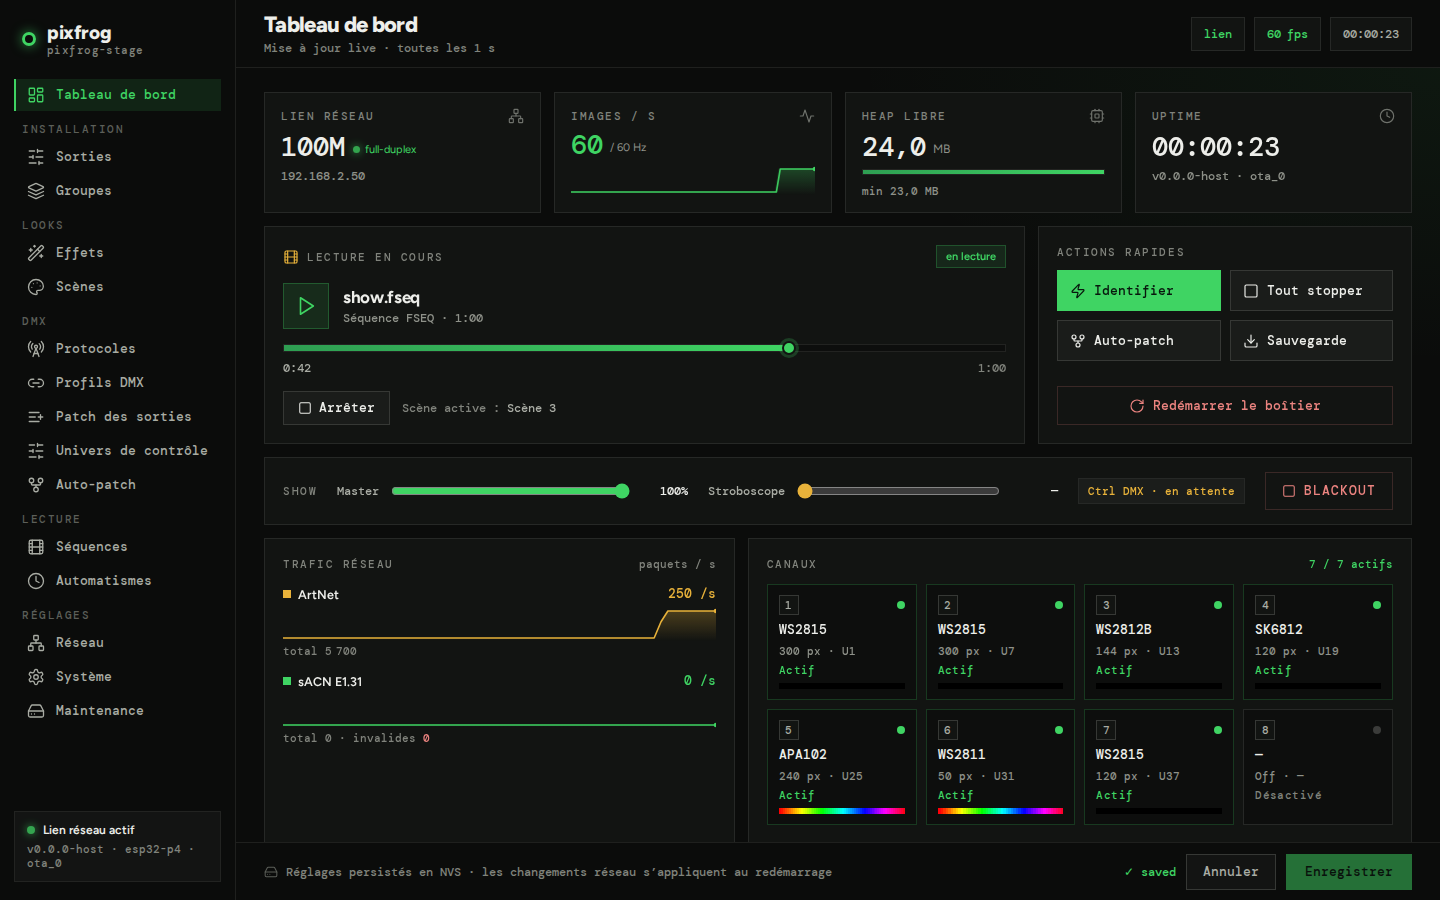
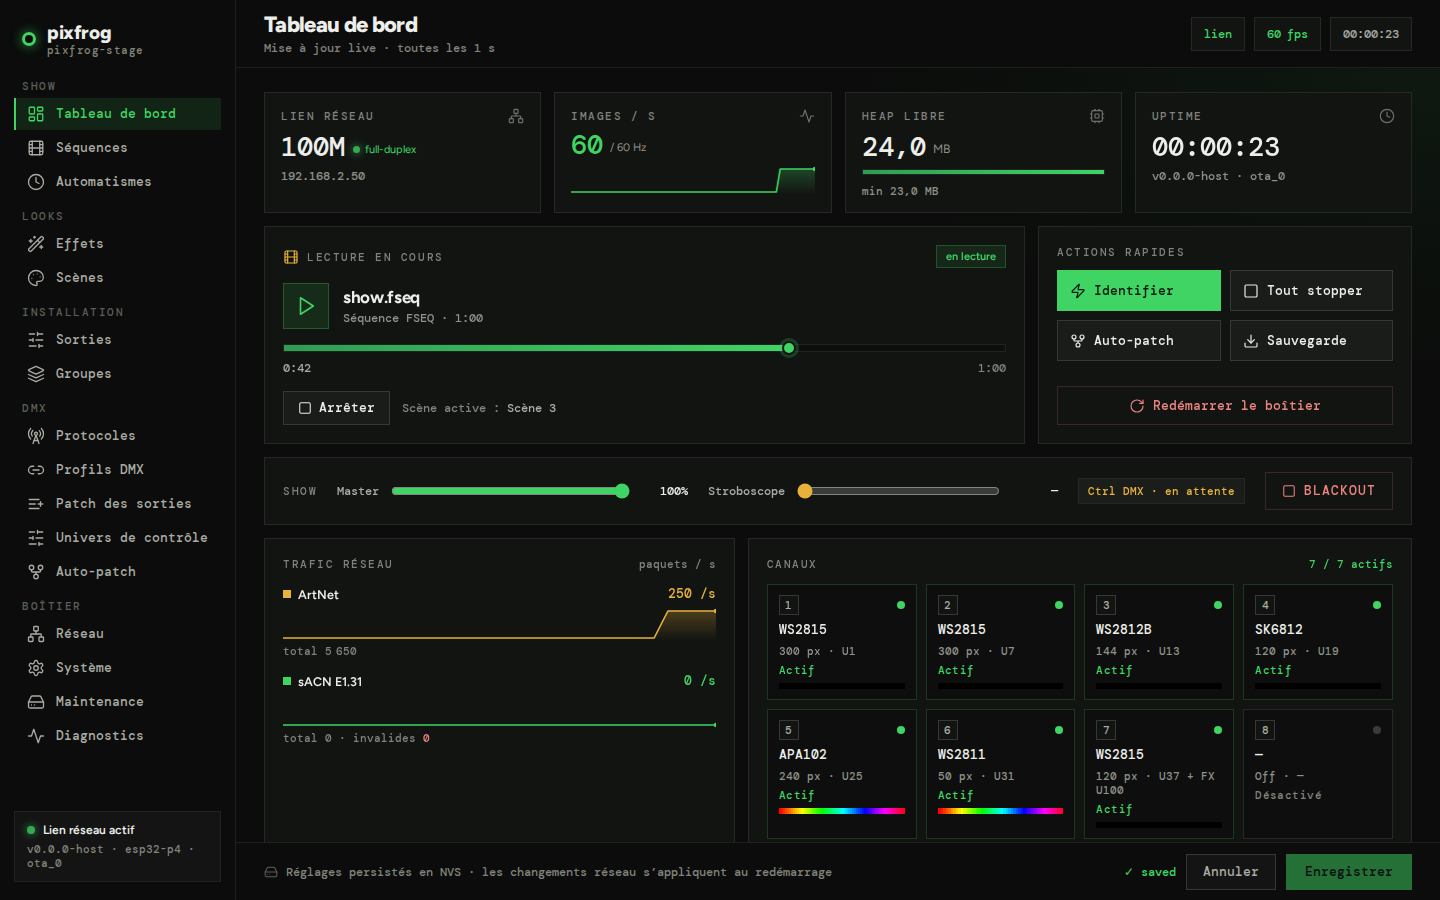
docs: pixels, fixtures or both per output; the auto-patch in three blocks
PROTOCOLS §5.6 rewritten around the two switches, the hardware validator
covers the mixed mode on the board, the captures follow the demo rig.

Changed region(s): [[0.0, 0.0933, 0.1562, 0.84], [0.75, 0.8711, 0.7812, 0.9022]]

diff --git a/tools/hw_validate/validate_control_mode.py b/tools/hw_validate/validate_control_mode.py
@@ -1,8 +1,10 @@
 #!/usr/bin/env python3
-"""DMX control mode on the board: an output with pixel mapping off, its
-fixtures driven like conventional luminaires through their DMX profiles —
-the patch sheet, plain colours, an effect of the bank, dimmer, a profile edit
-moving the addresses, and the way back to pixel mapping."""
+"""Fixture control on the board: an output's fixtures driven like conventional
+luminaires through their DMX profiles — alone (no pixel data): the patch
+sheet, plain colours, an effect of the bank, dimmer, a profile edit moving the
+addresses; then over the output's pixel mapping, each on its own universe: a
+fixture's Effect channel at 0 shows its pixels under its dimmer, above 0 the
+effect; then neither, and the way back to pixel mapping alone."""
 import sys
 
 from pixfrog_uart import Board, Checks, main_guard
@@ -27,7 +29,10 @@ def run(board: Board):
         board.cmd(f"profile preset {n} {preset}")
     # Three 20-pixel fixtures: RGB (3 ch), RGB FX (6 ch), Dim RGB (4 ch).
     board.cmd("ch 0 fixtures 1:20,21:20:p2,41:20:p1")
-    board.cmd("ch 0 packing control")
+    board.cmd("ch 0 pixel_map 0")  # the fixtures alone, where the output was
+    board.cmd("ch 0 fixture_ctl 1")
+    board.cmd("ch 0 fix_universe 1")
+    board.cmd("ch 0 fix_dmx 1")
     c.check("link up", board.wait_link())
 
     st = board.cmd("ch 0")
@@ -72,10 +77,61 @@ def run(board: Board):
             board.kv(board.cmd("ch 0"), "patch") == "1.1+3" and
             px(board, 0, 0) == [(17, 34, 51)] and px(board, 0, 59) == [(17, 34, 51)])
 
-    # Back to pixel mapping: the same bytes are pixels again.
+    # Both at once: the pixels on universe 1, the fixtures' channels on universe 2.
+    board.cmd("ch 0 fixtures 1:20,21:20:p2,41:20:p1")
     board.cmd("ch 0 packing continuous")
+    board.cmd("ch 0 pixel_map 1")
+    board.cmd("ch 0 fix_universe 2")
+    st = board.cmd("ch 0")
+    c.check("both: the fixtures on their own universe", board.kv(st, "patch") == "2.1+3,2.4+6,2.10+4")
+    c.check("both: one universe of pixels, one of fixtures", board.kv(st, "universes") == "2")
+    for first in (0, 20, 40):  # one pixel of each fixture, and its neighbour dark
+        board.cmd(f"dmxw 1 {first * 3 + 1} 203040000000")
+    #                    RGB       R G B bank spd shut  dim R  G B
+    board.cmd("dmxw 2 1 000000" "000000" "000000" "ff000000")
     board.cmd("status")
-    c.check("pixel mapping again", px(board, 0, 0) == [(17, 34, 51)] and px(board, 0, 1) != [(17, 34, 51)])
+    c.check("fixture 1 (no dimmer): its pixels as sent", px(board, 0, 0, 2) == [(32, 48, 64), (0, 0, 0)])
+    c.check("fixture 2, Effect at 0: its pixels", px(board, 0, 20, 2) == [(32, 48, 64), (0, 0, 0)])
+    c.check("fixture 3, dimmer full: its pixels", px(board, 0, 40) == [(32, 48, 64)])
+    board.cmd("dmxw 2 10 80")
+    board.cmd("status")
+    p = px(board, 0, 40)
+    c.check(f"fixture 3's dimmer at half dims its pixels ({p})",
+            p and all(abs(a - b) <= 1 for a, b in zip(p[0], (16, 24, 32))))
+    board.cmd("dmxw 2 7 08")  # fixture 2's Effect channel: effect 1 of the bank
+    board.cmd("status")
+    c.check("Effect above 0: the effect replaces the fixture's pixels",
+            px(board, 0, 20, 2) == [(200, 100, 50)] * 2)
+    c.check("the other fixtures keep their pixels", px(board, 0, 0, 2) == [(32, 48, 64), (0, 0, 0)])
+    board.cmd("dmxw 2 7 00")
+    board.cmd("status")
+    c.check("Effect back at 0: its pixels again", px(board, 0, 20, 2) == [(32, 48, 64), (0, 0, 0)])
+    board.cmd("dmxw 2 9 ff")  # fixture 2's shutter: strobing — dark part of the time
+    seen = set()
+    for _ in range(12):
+        board.cmd("status")
+        seen.add(tuple(px(board, 0, 20)))
+    c.check(f"the shutter strobes the fixture's pixels ({len(seen)} states)",
+            ((32, 48, 64),) in seen and ((0, 0, 0),) in seen)
+    board.cmd("dmxw 2 9 00")
+
+    # Neither: the output takes no universe (scenes still play on it).
+    board.cmd("ch 0 pixel_map 0")
+    board.cmd("ch 0 fixture_ctl 0")
+    st = board.cmd("ch 0")
+    c.check("neither: no universe, no patch sheet",
+            board.kv(st, "universes") == "0" and board.kv(st, "patch") is None)
+    board.cmd("status")
+    c.check("neither: nothing of its own to show", px(board, 0, 0) == [(0, 0, 0)])
+
+    # Back to pixel mapping alone: the same bytes are pixels again.
+    board.cmd("ch 0 pixel_map 1")
+    board.cmd("ch 0 fixtures -")
+    st = board.cmd("ch 0")
+    c.check("pixel mapping alone: one universe", board.kv(st, "universes") == "1")
+    board.cmd("dmxw 1 1 112233445566")
+    board.cmd("status")
+    c.check("pixel mapping again", px(board, 0, 0, 2) == [(17, 34, 51), (68, 85, 102)])
     return c.finish()
 
 

diff --git a/tools/screenshots/shots.py b/tools/screenshots/shots.py
@@ -43,7 +43,7 @@ WEB = [
     ("effects", "effects", '[data-fx-row="8"]'),
     ("fseq", "fseq", None),
     ("channels", "channels", None),
-    # An output in DMX control mode, in the output patch.
+    # An output driven by its pixels and by its fixtures' profiles, in the output patch.
     ("channel-control", "dmxpatch", '#patch-list-mount [data-chan="6"]'),
     ("auto", "auto", None),
     ("maint", "maint", None),

diff --git a/docs/PROTOCOLS.md b/docs/PROTOCOLS.md
@@ -308,9 +308,11 @@ fixtures, the dead LEDs and any overlap.
   (after the last one, as long as it; the first takes the strip as it is, and
   the strip grows under a fixture that passes its end), **Split in** *N* equal
   fixtures, and per fixture its first LED, length (both stop at its
-  neighbours), mounting direction and, in DMX control mode, its DMX profile.
-  The output's DMX layout, universe and address are under DMX → **Patch**
-  (§5.6), with the **Pixel map** switch — off: DMX control mode.
+  neighbours) and mounting direction.
+  What drives the output from the network is under DMX → **Patch** (§5.6):
+  the **Pixel map** switch with its layout, universe and address, the
+  **Fixtures** switch with the fixtures' universe and address and one row a
+  fixture for its DMX profile.
 
 ### 5.5b Fixture groups
 
@@ -354,11 +356,40 @@ Scenes on groups (`dmx::group_play / group_stop`, the render task draws them):
   the status; console `scene play <n> group <g>`, `scene group <n> <g|none>`,
   `scene part … [rev]`.
 
-### 5.6 DMX layout and auto-patch
+### 5.6 Output patch and auto-patch
 
-How a channel's pixels fill its universes is per channel
-(`ChannelConfig::packing`, `"packing"` in the API, `ch N packing` on the
-console), from `(universe_start, dmx_start)`:
+An output is driven from the network two ways, each a switch of its own and
+each on its own address range (`ChannelConfig::packing` carries both switches
+next to the pixel layout — web **Output patch** screen, DMX → **Patch** on the
+device):
+
+| switch | what it does | address | API / console |
+|---|---|---|---|
+| **Pixel mapping** (on by default) | every LED has its DMX channels | `(universe_start, dmx_start)` | `"pixel_map"` / `ch N pixel_map 0\|1` |
+| **Fixtures (DMX profiles)** | each fixture answers to the channels of its DMX profile, like a conventional luminaire | `(fix_universe, fix_dmx_start)` | `"fixture_ctl"`, `"fix_universe"`, `"fix_dmx_start"` / `ch N fixture_ctl 0\|1`, `fix_universe`, `fix_dmx` |
+
+- **Pixel mapping alone** — the pixel-mapped node it always was.
+- **Fixtures alone** — no pixel data: a handful of channels a fixture instead
+  of 3–4 a pixel. Eight outputs of 300 RGBW pixels take 24 universes
+  pixel-mapped, and one with a 16-channel fixture each.
+- **Both** — the pixels come from one range (a media server, a pixel mapper),
+  the fixtures' channels from another (the desk). Per fixture, per frame: the
+  **Effect channel at 0** shows its pixels, under the fixture's dimmer and
+  shutter; **above 0** the fixture plays that effect of the bank instead, as
+  it would alone. A profile without an Effect channel only dims and shutters
+  its pixels (its colour channels have nothing to colour). The fixtures'
+  universe missing or silent leaves the pixels as they come. LEDs in no
+  fixture keep their pixel data.
+- **Neither** — the output listens to no universe and takes none of the pool;
+  it only plays scenes.
+
+The dimmers multiply: the fixture's own, then the control universe's master,
+then the box's. The output is alive — no failsafe — while either of its ranges
+receives; a range that stops keeps its last frame (ARCHITECTURE §6.1: a
+universe that is not rewritten keeps its last value).
+
+**The pixel layout** — how the pixels fill their universes, `"packing"` in the
+API, `ch N packing` on the console:
 
 | packing | layout | 1024 px RGB |
 |---|---|---|
@@ -366,25 +397,28 @@ console), from `(universe_start, dmx_start)`:
 | `whole` | whole pixels only: 170 RGB / 128 RGBW per universe (xLights / Falcon / FPP "510 channels") | 7 universes |
 | `fixture` | each fixture (§5.5) from slot 1 of a universe of its own, whole pixels inside; pixels in no fixture get no data; no fixtures = `whole` | 1 + per fixture |
 | `colour` | one colour per fixture: 3 channels a bar (4 RGBW), bars in strip order, the bar lit with it — patch each bar as a plain RGB fixture; no fixtures = one colour for all | a few slots |
-| `control` | **DMX control mode**: no pixel data. Each fixture takes the channels of its DMX profile, one after the other | 3 channels with one RGB fixture |
 
-**DMX control mode** turns pixel mapping off for an output — the "Pixel by
-pixel control" switch of the web Output patch screen, "Pixel map" in the
-device's DMX menu, on by default — and drives its
-fixtures like conventional luminaires (the profiles, their functions and
-presets: SHOW_CONTROL "Fixture DMX profiles"):
+`control` was a fifth value before the two switches ("DMX control mode"): it
+is still read — a stored configuration, a backup, a script — as *fixtures
+alone, where the output is addressed*. Likewise a JSON body that names a
+`packing` and neither switch is a body of before them: its layout means pixel
+mapping alone.
 
-- The fixtures follow each other on the wire from `(universe_start,
-  dmx_start)`, in the order they are listed, each taking the footprint of its
-  profile. A fixture never straddles two universes: one that would starts the
-  next at slot 1.
+**The fixtures' channels** (the profiles, their functions and presets:
+SHOW_CONTROL "Fixture DMX profiles"):
+
+- The fixtures follow each other on the wire from `(fix_universe,
+  fix_dmx_start)`, in the order they are listed, each taking the footprint of
+  its profile. A fixture never straddles two universes: one that would starts
+  the next at slot 1.
 - An output without fixtures is one fixture covering the strip, on the first
-  profile. LEDs in no fixture stay dark. A fixture whose profile left the bank
-  uses the first.
+  profile. With fixtures alone, LEDs in no fixture stay dark. A fixture whose
+  profile left the bank uses the first.
 - Each frame, every fixture reads its channels and plays what they ask for:
-  its colour, steady (effect channel at 0), or an effect of the bank with the
-  desk's colours, speed, phaser and Block / Groups / Wings — at its dimmer,
-  through its shutter. All fixtures share the box's clock.
+  its colour, steady (effect channel at 0 — its pixels when the output is
+  pixel-mapped too), or an effect of the bank with the desk's colours, speed,
+  phaser and Block / Groups / Wings — at its dimmer, through its shutter. All
+  fixtures share the box's clock.
 - Everything above the network path is unchanged: a scene started on the
   output overrides the desk, the failsafe takes over on signal loss, the
   grand master, blackout and strobe apply after.
@@ -392,32 +426,35 @@ presets: SHOW_CONTROL "Fixture DMX profiles"):
   `"patch"` on the channel in `GET /api/config`, `patch=` in `ch N` on the
   console, and shown next to each fixture in the web Output patch screen.
 
-![A channel in DMX control mode in the web UI: each fixture with its profile and its address](img/web-channel-control.png)
+![An output driven both ways in the web UI: its pixels' address, then each fixture with its profile and its address](img/web-channel-control.png)
 
-The point is the universe count: eight outputs of 300 RGBW pixels take 24
-universes pixel-mapped, and one in control mode with a 16-channel fixture
-each.
+`logic::for_each_dmx_run` turns an output's pixels into runs (universe offset,
+slot, buffer offset, bytes) and `logic::for_each_fixture_patch` places its
+fixtures; decoding, the universe span (`channel_universe_span`: both ranges),
+the pool map and the sACN joins all follow them.
 
-`logic::channel_layout` turns a channel into runs (universe offset, slot,
-buffer offset, bytes); decoding, the universe span (`channel_universe_span`,
-which now counts `dmx_start` — a channel starting late used to lose its last
-universe), the pool map and the sACN joins all follow it.
+Auto-patch (`POST /api/autopatch {base, compact, packing, fix_base}`, console
+`autopatch <base> [compact] [continuous|whole|fixture|colour] [fix <universe>]`,
+web Auto-patch screen; the TFT/OLED menu keeps the aligned default) lays
+everything out in **three blocks, each opening a universe**:
 
-Auto-patch (`POST /api/autopatch {base, compact, packing}`, console
-`autopatch <base> [compact] [continuous|whole|fixture]`, web Auto-patch
-screen; the TFT/OLED menu keeps the aligned default):
+1. **the pixels** of every pixel-mapped output, from `base`;
+2. **the fixtures** of every output under fixture control — right after the
+   pixels, or from `fix_base` (web: "From universe"), a base of their own so
+   that adding LEDs later does not move the desk's patch;
+3. **the control universe**, when enabled, on the universe after.
+
+Inside the first two blocks:
 - **aligned** (default): every output opens a universe at slot 1.
 - **compact**: an output starts at the slot after the previous one, sharing
   its universe (a `whole` output skips to the next universe when not one pixel
-  fits; a `fixture` output always opens one). A shared universe takes one pool
-  slot feeding both outputs (`g_slot_chans` is a bit per channel), so activity
-  and failsafe follow every output on it.
-- `packing` other than `keep` is set on every output first — a pixel layout:
-  an output in DMX control mode keeps its mode. Such outputs chain like the
-  others; compact, one starts in the next universe when its first fixture
-  would not fit in what is left.
-- An enabled DMX control universe follows the outputs: in the room left in the
-  last universe when compact, else from slot 1 of the next.
+  fits; a `fixture` output always opens one; fixtures start in the next
+  universe when the first would not fit in what is left). A shared universe
+  takes one pool slot feeding both outputs (`g_slot_chans` is a bit per
+  channel), so activity and failsafe follow every output on it.
+- `packing` other than `keep` is set on every pixel-mapped output first.
+- An output driven neither way is skipped; one without pixel mapping has its
+  `(universe_start, dmx_start)` follow its fixtures' address.
 
 The reply carries `universes` against `pool` (72, §DMX pool): a patch needing
 more is flagged in the web UI and the console (`warn=pool_full`).

diff --git a/README.md b/README.md
@@ -14,7 +14,7 @@
 - **Effect bank and standalone scenes**: up to 31 reusable effects — 11 generators (solid + strobe, chase, rainbow, blobs, gradient, fade, twinkle, fire, scanner, wave, stripes), up to 4 colours each, a **dimmer phaser** (sine, cosine, ramps, triangle, PWM, bump; rate, phase spread, width, floor), a dimmer invert and pixel-level **Block / Groups / Wings** — and up to 30 scenes (create / rename / reorder / delete), each a memory of parts: "this effect on these outputs"; playable at boot, from the desk (ArtTrigger), or any UI
 - **Per-line tuning**: gamma, white balance, grouping, invert, up to 8 dead-pixel gaps anywhere on the line (sacrificial pixel, repeater chip) and up to 32 fixtures (bars, tubes) that scenes can play per fixture, chained or mirrored; any refresh rate 20–120 Hz with a non-destructive pixel budget
 - **Show control**: grand master, blackout and strobe per output group; scene **zones** (several scenes at once on different outputs) with **crossfades**; a composable **DMX control universe** (master 16-bit, blackout, strobe, scene, effect of the bank, speed, param, generator, colours, phaser, Block / Groups / Wings, fade, FSEQ) editable from the web, TFT or UART, with an exportable **OFL fixture profile** for the desk; up to 8 composable **fixture DMX profiles** (dimmer, colours, shutter, effect of the bank, speed, phaser, Block / Groups / Wings — presets from 3 to 16 channels), each with its OFL export; ArtTrigger KeyMacro blackout
-- **DMX control mode** per output: pixel mapping off, each fixture driven like a conventional luminaire through its DMX profile (for example R, G, B, effect, speed, shutter) — a handful of channels per fixture instead of 3–4 per pixel; fixtures follow each other on the wire, auto-patch chains the outputs, the web shows the patch sheet
+- **Pixels, fixtures, or both** per output — two switches, each on its own address range: **pixel mapping** (every LED its DMX channels) and **fixture control**, each fixture driven like a conventional luminaire through its DMX profile (for example R, G, B, effect, speed, shutter) — a handful of channels per fixture instead of 3–4 per pixel. Both at once: a media server sends the pixels, the desk dims, shutters or replaces them with an effect of the bank, fixture by fixture. Auto-patch lays out the pixels, then the fixtures, then the control universe; the web shows the patch sheet
 - **Signal-loss failsafe** per channel: hold / blackout / solid colour / scene after a configurable timeout
 - **Per-channel gamma + white balance**, baked into encode-time LUTs (validated bit-exact on a logic analyzer)
 - Local UI: **NV3007 428×142 colour bar TFT** (SPI, 2.79") with a live status dashboard (per-channel activity, link/services state) and natively rasterised anti-aliased fonts; Adafruit seesaw rotary encoder (4-wire I2C, time-polled); pixel-count live preview and strip-identify blink for commissioning. Two other panels are supported as build-time alternates — see [Display backend](#display-backend)

diff --git a/docs/img/README.md b/docs/img/README.md
@@ -30,7 +30,7 @@ docs viewer hide any image that fails to load, so adding/replacing one is safe.
 | `web-control.png`           | PNG  | Web UI DMX control editor — `tools/screenshots`                | SHOW_CONTROL |
 | `web-effects.png`           | PNG  | Web UI effect editor (phaser, Block / Groups / Wings) — `tools/screenshots` | SHOW_CONTROL |
 | `web-profiles.png`          | PNG  | Web UI DMX profiles editor — `tools/screenshots`               | SHOW_CONTROL |
-| `web-channel-control.png`   | PNG  | Web UI channel editor, an output in DMX control mode — `tools/screenshots` | PROTOCOLS §5.6 |
+| `web-channel-control.png`   | PNG  | Web UI output patch, an output driven by its pixels and its fixtures' profiles — `tools/screenshots` | PROTOCOLS §5.6 |
 | `effects/effects-gallery.png` | PNG | The 11 generators, time → x, pixel → y — `tools/effects_gallery` | SHOW_CONTROL |
 | `effects/layers-gallery.png` | PNG | Dimmer phaser waveforms, invert, Block / Groups / Wings — `tools/effects_gallery` | SHOW_CONTROL |
 | `og-cover.png`              | PNG  | Social / link-preview cover (rendered from `og-cover.svg`)    | `og:image` |

diff --git a/TODO.md b/TODO.md
@@ -49,13 +49,6 @@ Feedback from a lighting operator (GrandMA): drive the box like a conventional
 fixture, not only as a pixel-mapped node. In landing order — each item builds
 on the one before.
 
-- [ ] ★ **Pixels and fixtures at once on an output** — an output is either
-      pixel-mapped or under fixture control ("DMX control mode"); a rig with a
-      media server on the pixels and a desk on the fixtures needs both: two
-      switches per output, each with its own address range (the pixels on one
-      universe, the fixtures' profiles on another). A fixture whose Effect
-      channel is at 0 shows its pixels under its dimmer and shutter; above 0
-      it plays the effect. Auto-patch in blocks: pixels, fixtures, control.
 - [ ] ★ **GDTF export of a profile** — a native fixture file for GrandMA3, next
       to the OFL one.
 - [ ] **Patch overlap check** — the web Auto-patch table says "no overlap

diff --git a/docs/SHOW_CONTROL.md b/docs/SHOW_CONTROL.md
@@ -230,7 +230,9 @@ for other desks, then patch one fixture at the configured address.
 A **profile** is the ordered list of DMX channels a fixture answers to, like the
 mode of a conventional luminaire. The box keeps up to eight; each fixture of an
 output points at one (the first by default). They drive the fixtures of an
-output in DMX control mode (PROTOCOLS §5.6).
+output whose **Fixtures** switch is on (PROTOCOLS §5.6) — alone, or over the
+output's pixel mapping: the Effect channel at 0 then shows the fixture's
+pixels, under its dimmer and shutter.
 
 | Function | Value |
 |---|---|
